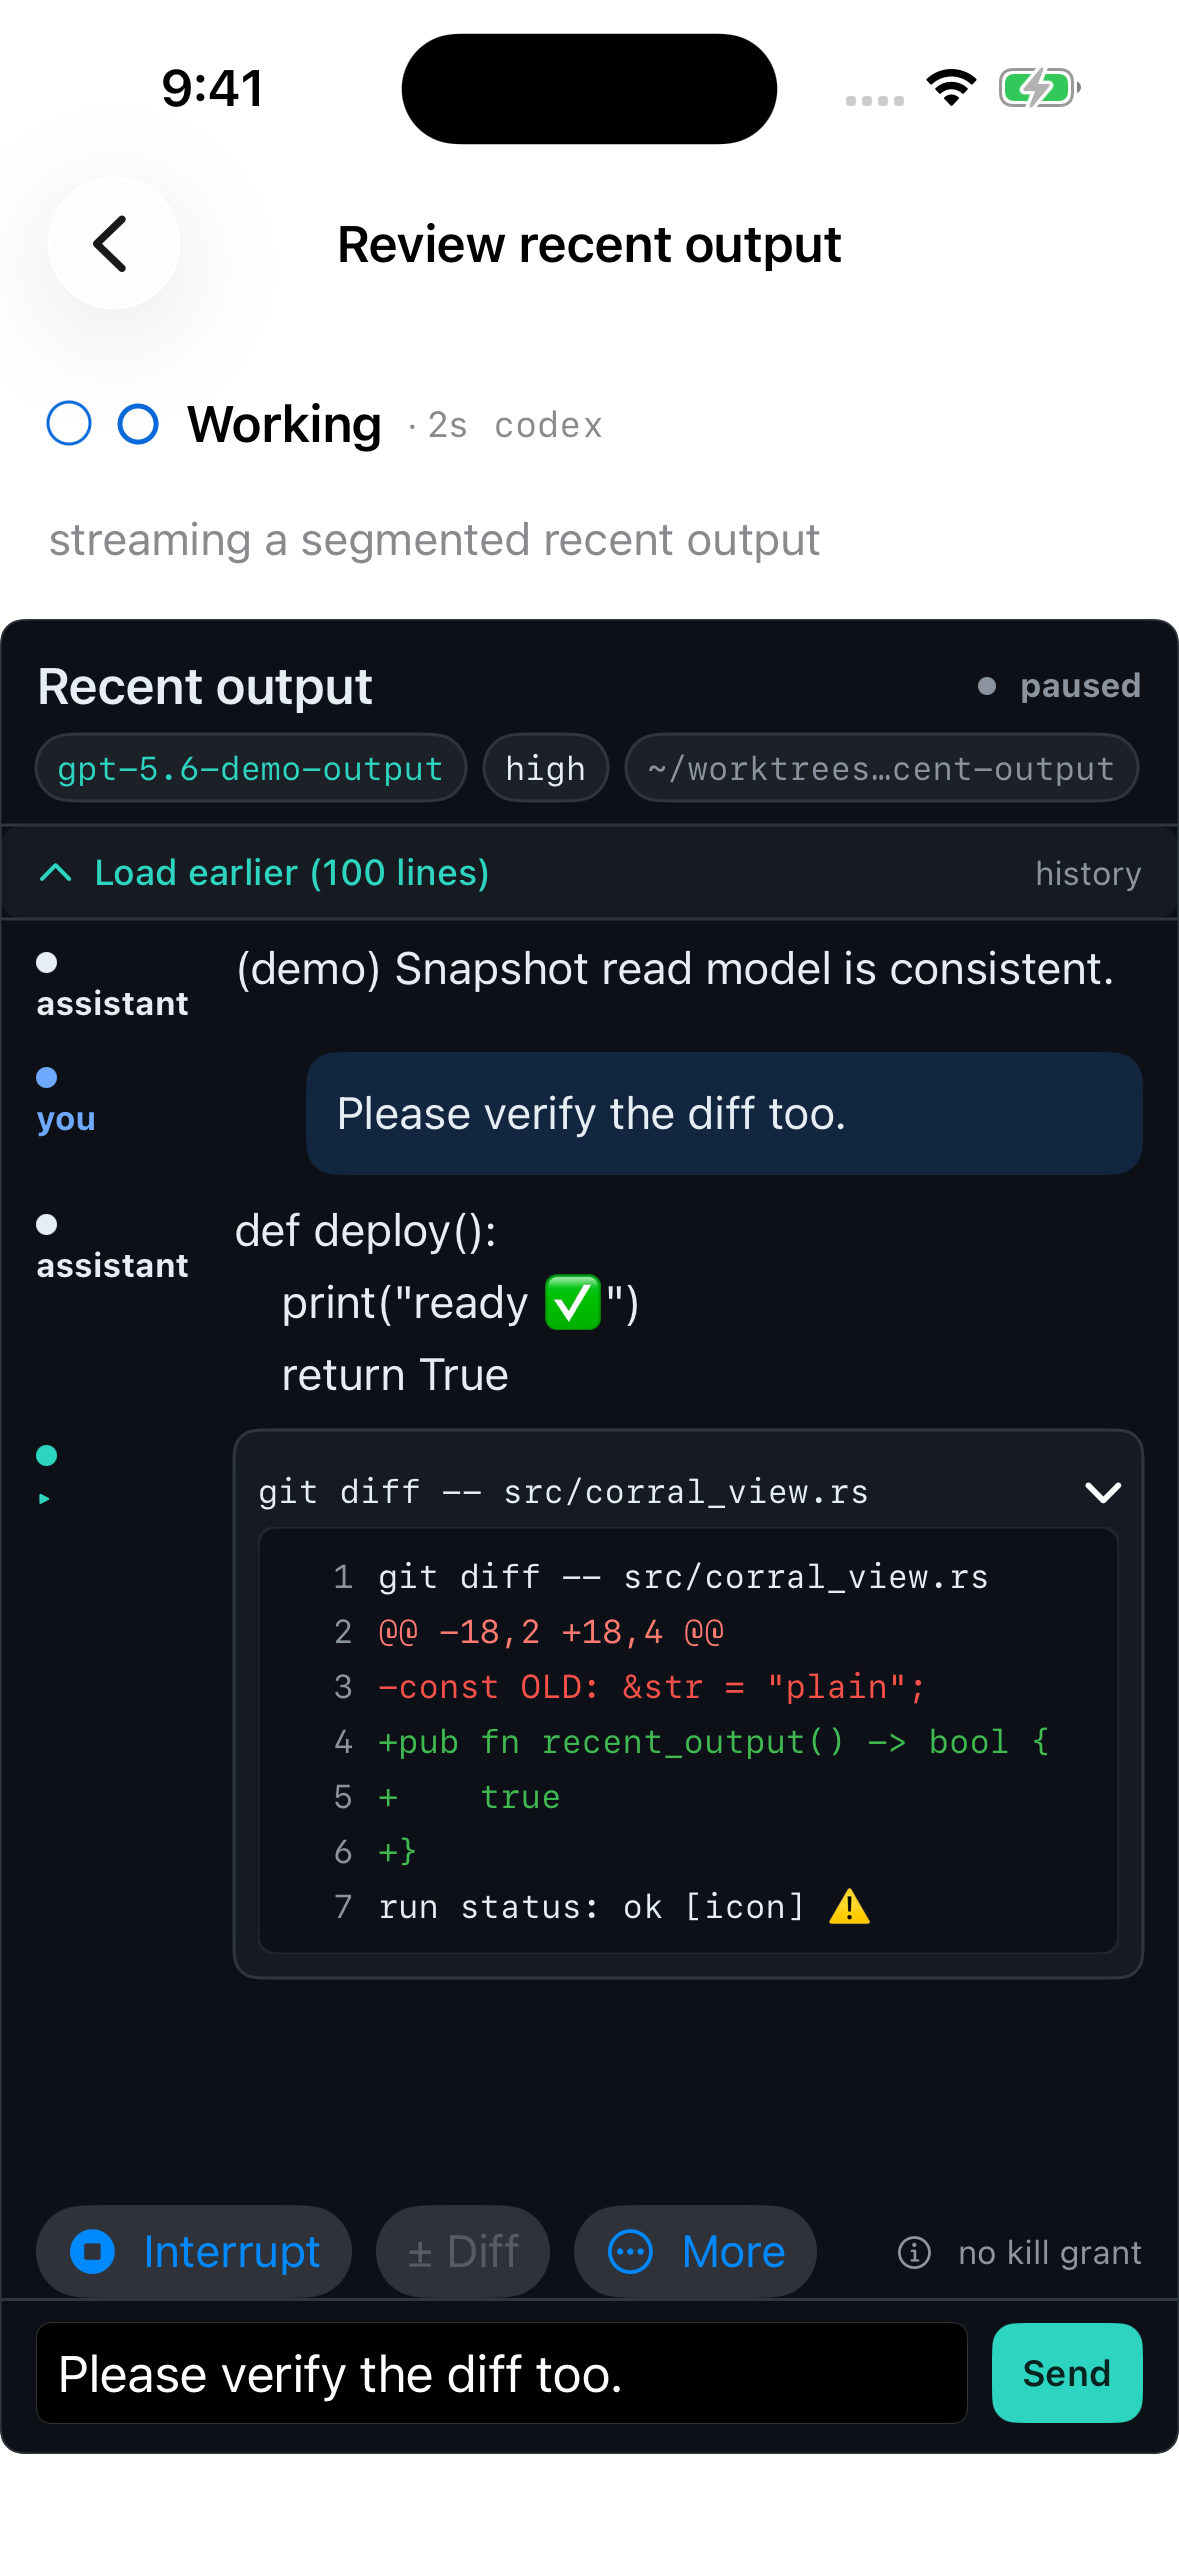
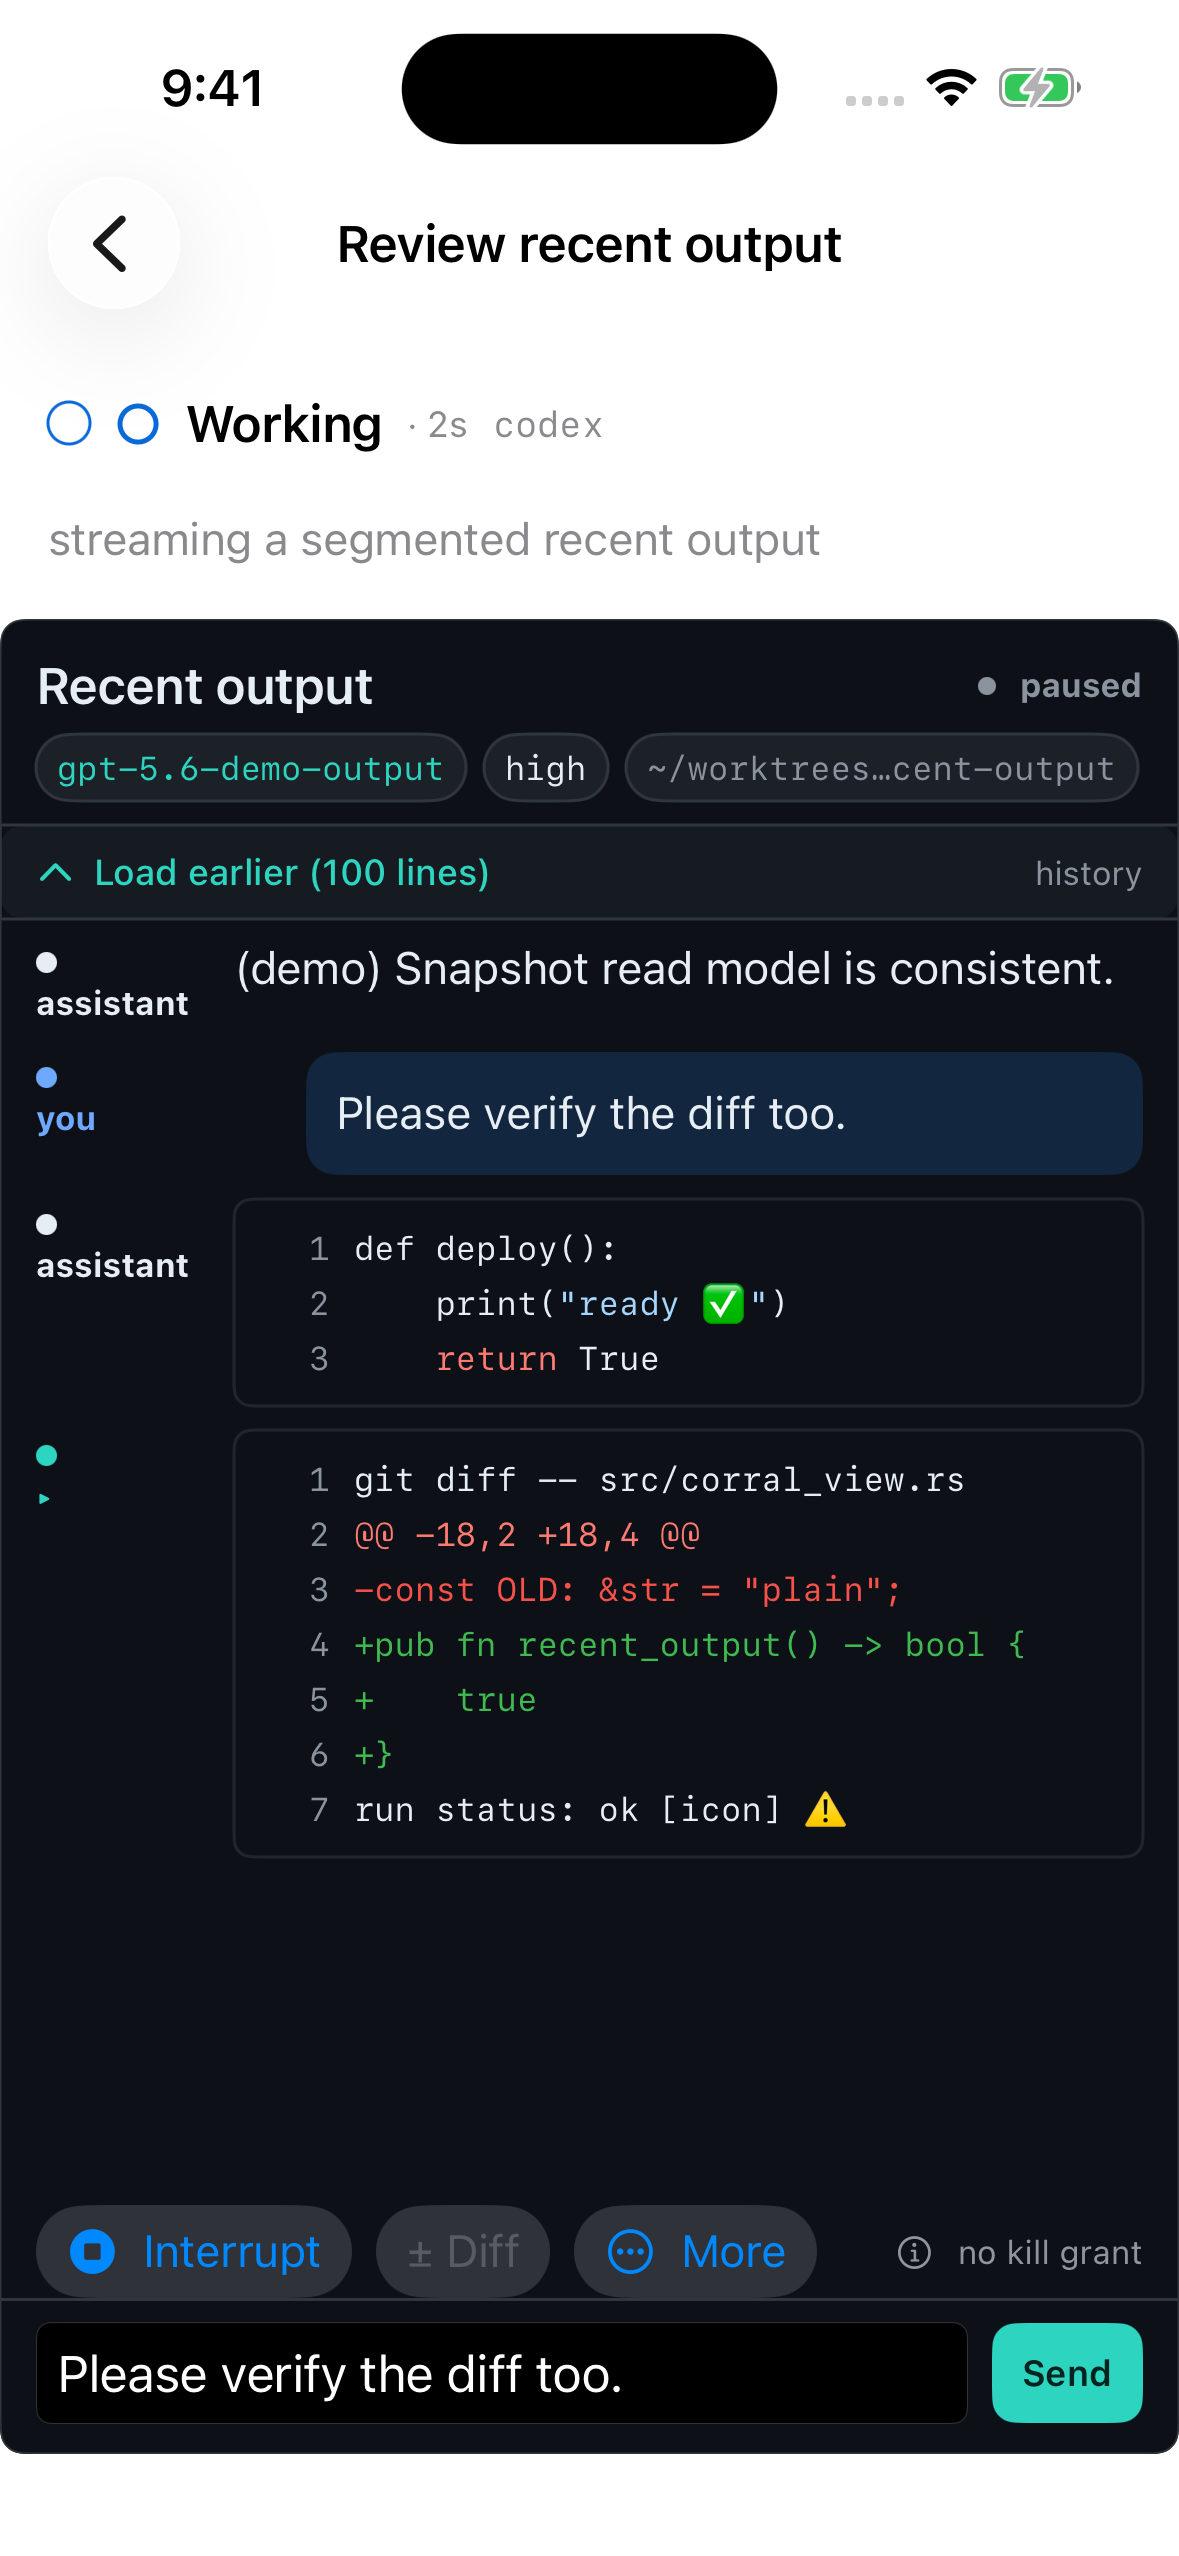
fix: route assistant transcript highlighting

diff --git a/ios/FleetNotifier/UI/FleetViews.swift b/ios/FleetNotifier/UI/FleetViews.swift
@@ -1450,17 +1450,23 @@ private struct RecentBlockRow: View {
             speakerRail
                 .frame(width: 58, alignment: .topLeading)
             Group {
-                switch block.kind {
-                case .user:
-                    userMessage
+                if rendersHighlighted {
+                    highlightedMessage
                         .accessibilityElement(children: .combine)
                         .accessibilityLabel(RecentOutputRender.accessibilityLabel(block))
-                case .agent:
-                    agentMessage
-                        .accessibilityElement(children: .combine)
-                        .accessibilityLabel(RecentOutputRender.accessibilityLabel(block))
-                case .tool, .system:
-                    toolMessage
+                } else {
+                    switch block.kind {
+                    case .user:
+                        userMessage
+                            .accessibilityElement(children: .combine)
+                            .accessibilityLabel(RecentOutputRender.accessibilityLabel(block))
+                    case .agent:
+                        agentMessage
+                            .accessibilityElement(children: .combine)
+                            .accessibilityLabel(RecentOutputRender.accessibilityLabel(block))
+                    case .tool, .system:
+                        toolMessage
+                    }
                 }
             }
             .frame(maxWidth: .infinity, alignment: .leading)
@@ -1481,6 +1487,27 @@ private struct RecentBlockRow: View {
                     .lineLimit(1)
             }
         }
+    }
+
+    private var rendersHighlighted: Bool {
+        RecentOutputRender.codeLines(for: block).contains { $0.isHighlighted }
+    }
+
+    private var highlightedMessage: some View {
+        VStack(alignment: .leading, spacing: 2) {
+            ForEach(Array(RecentOutputRender.codeLines(for: block).enumerated()),
+                    id: \.offset) { item in
+                RecentCodeLineView(line: item.element)
+            }
+        }
+        .padding(8)
+        .frame(maxWidth: .infinity, alignment: .leading)
+        .background(RecentOutputPalette.codeBg,
+                    in: RoundedRectangle(cornerRadius: 6))
+        .overlay(
+            RoundedRectangle(cornerRadius: 6)
+                .stroke(RecentOutputPalette.codeLine, lineWidth: 1))
+        .textSelection(.enabled)
     }
 
     private var userMessage: some View {

diff --git a/ios/check-release-demo.py b/ios/check-release-demo.py
@@ -63,8 +63,8 @@ ROOT = Path(__file__).resolve().parent.parent
 # body/labels/comment window, IssuesBrowserWire + pane, demo seedIssues,
 # IssuesBrowserView (chips + inline detail).
 APPROVED_RELEASE_SOURCE_DIGEST = (
-    # #271 review: glyph-rich Recent-output demo fixture for rail evidence.
[1 lines of base64/hex data omitted]
+    # #271 R2: view routes highlighted segments for every speaker kind.
[1 lines of base64/hex data omitted]
 )
 RELEASE_SOURCE_DIGEST_MARKER = source_digest_marker(APPROVED_RELEASE_SOURCE_DIGEST)
 RELEASE_BUILD_INPUTS = tuple(

diff --git a/.report.md b/.report.md
@@ -224,6 +224,21 @@ shipped-surface evidence available from this lane.
 - iOS build used for the screenshot — exit 0.
 - `cargo test -p corrald-ui` — exit 0; 172 unit tests passed, plus integration/conformance tests.
 
+## Review Fix Cycle 2
+
+- Fixed the FleetNotifier view-layer routing gap: any `TranscriptBlock` whose `RecentOutputRender.codeLines(for:)` contains highlighted segments now uses the highlighted code-line view, regardless of `.agent`, `.user`, `.tool`, or `.system` kind.
+- The existing `RecentOutputModelTests` harness does not instantiate private SwiftUI views; the model test remains the executable coverage for highlighted assistant segments, while the view path is directly guarded by the `rendersHighlighted` branch in `FleetViews.swift`.
+- Rebuilt and captured `docs/design/evidence/issue-271/impl/ios-transcript.png` from the actual simulator Recent output route. It visibly shows the assistant Python block with colored string/keyword tokens, alongside the speaker rail, styled diff, and `[icon]`.
[1 lines of base64/hex data omitted]
+
+### Gates
+
+- `HERDR_XCODEBUILD_DIRECT=1 HERMES_SIM_TASK_ACTIVE=1 xcodebuild build -project ios/FleetNotifier.xcodeproj -scheme FleetNotifier -destination 'generic/platform=iOS Simulator' -derivedDataPath /tmp/fn-r2-dd` — exit 0.
+- `HERDR_XCODEBUILD_DIRECT=1 HERMES_SIM_TASK_ACTIVE=1 xcodebuild test -project ios/FleetNotifier.xcodeproj -scheme FleetNotifier -destination 'platform=iOS Simulator,id=59DDC0C5-891E-4EC0-91AF-4F50DF68D793' -derivedDataPath /tmp/fn-r2-dd -only-testing:FleetNotifierTests/RecentOutputModelTests` — exit 0; `Executed 32 tests, with 0 failures`; `** TEST SUCCEEDED **`.
+- `HERDR_XCODEBUILD_DIRECT=1 HERMES_SIM_TASK_ACTIVE=1 xcodebuild test -project ios/FleetNotifier.xcodeproj -scheme FleetNotifier -destination 'platform=iOS Simulator,id=59DDC0C5-891E-4EC0-91AF-4F50DF68D793' -derivedDataPath /tmp/fn-r2-dd -only-testing:FleetNotifierTests` — exit 0; `Executed 210 tests, with 0 failures`; `** TEST SUCCEEDED **`.
+- `python3 ios/check-release-demo.py --self-test` — exit 0; `release-demo check: PASS (Debug source preserved; Release boundary verified)`.
+- Simulator was shut down after evidence capture.
+
 ## Not verified
 
 - `bash scripts/test-design-gate-egui-integration.sh --publish` remains blocked before capture by its malformed generated fake fleet-ops fixture.
